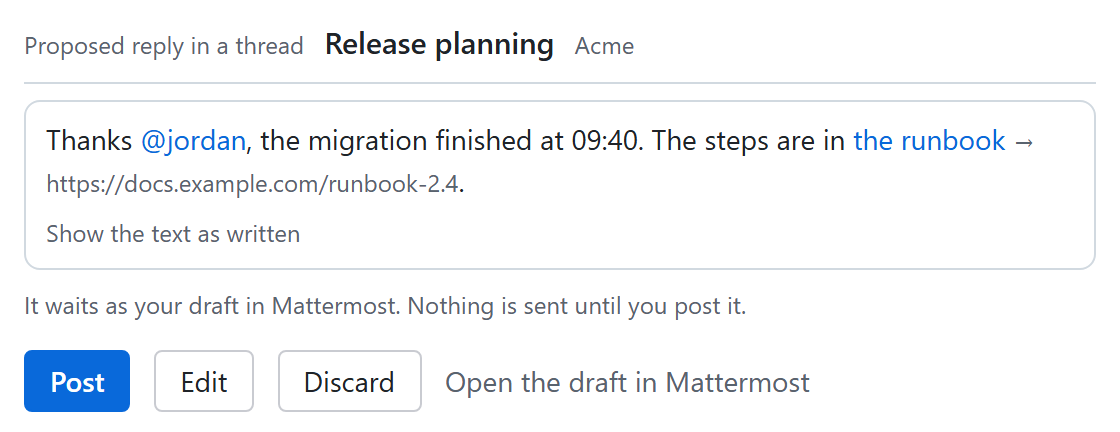
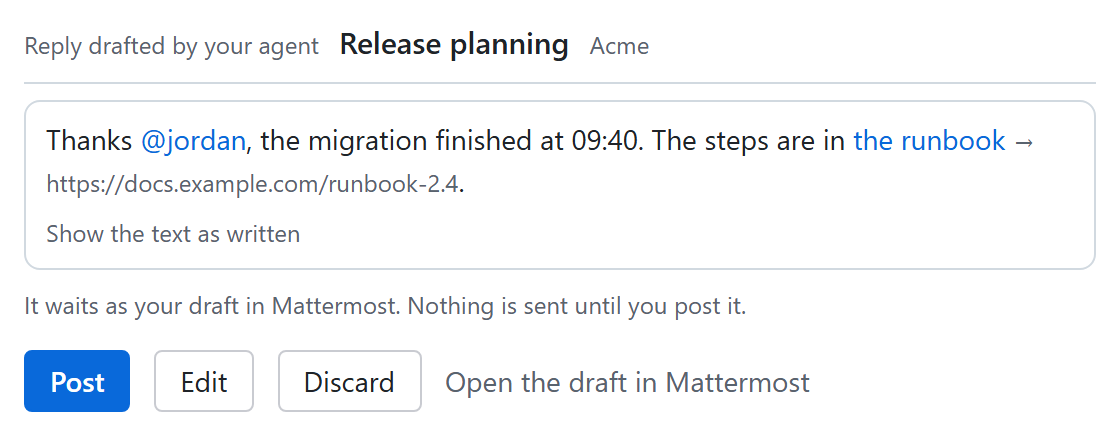
feat: a proposal's view says who drafted it, in plain words
The view of a post your agent drafts no longer speaks of proposals, a
word of mm-mcp's design that a person reading it has no use for:
- its header says "Drafted by your agent", or "Reply drafted by your
  agent";
- beside a draft the person started, the agent's is "Your agent's draft",
  and a revision "Your agent's changes to your draft";
- a press the app refuses says "This app does not let you post or change
  the draft from here."

The home page's drawn conversation speaks the same way. The README's
pictures are taken again from the view as it now reads.

Changed region(s): [[0.0312, 0.0602, 0.5938, 0.1505]]

diff --git a/internal/views/proposal_browser_test.go b/internal/views/proposal_browser_test.go
@@ -91,7 +91,7 @@ func TestAProposalIsShownAsItWillBePostedHidingNothing(t *testing.T) {
 			Warning: text('.proposal-warning'), Notes: d.querySelectorAll('.proposal-notes li').length,
 			Targets: [...d.querySelectorAll('.md-link-target')].map((e) => e.textContent),
 		};`, &drawn)
-	if drawn.Label != "Proposed post" || drawn.Title != "Town Square" || drawn.Team != "Team" || drawn.Notes != 1 ||
+	if drawn.Label != "Drafted by your agent" || drawn.Title != "Town Square" || drawn.Team != "Team" || drawn.Notes != 1 ||
 		!strings.Contains(drawn.Status, "Nothing is sent until you post it") {
 		t.Errorf("the proposal is drawn as %+v", drawn)
 	}
@@ -124,7 +124,7 @@ func TestAProposalIsShownAsItWillBePostedHidingNothing(t *testing.T) {
 	}
 
 	reply := h.mount(showProposal(proposal("I can take it", map[string]any{"root_id": "p1", "url": "https://chat.example.com/team/pl/p1"}), nil))
-	if got := h.text(reply, ".posted-label"); got != "Proposed reply in a thread" {
+	if got := h.text(reply, ".posted-label"); got != "Reply drafted by your agent" {
 		t.Errorf("a reply is labelled %q", got)
 	}
 }
@@ -254,7 +254,7 @@ func TestThePersonsOwnDraftIsKeptOrReplacedOnTheirPress(t *testing.T) {
 	i := h.mount(showProposal(choosing, nil))
 	var headings []string
 	h.in(i, "return [...d.querySelectorAll('.proposal-heading')].map((e) => e.textContent);", &headings)
-	if strings.Join(headings, " | ") != "Your draft | Proposal" {
+	if strings.Join(headings, " | ") != "Your draft | Your agent's draft" {
 		t.Errorf("the choice shows %v", headings)
 	}
 	if got := h.buttons(i); !has(got, "Replace mine") || !has(got, "Keep mine") || has(got, "Post") {
@@ -296,7 +296,7 @@ func TestARefusedPressSaysSoAndOffersTheDraftInMattermost(t *testing.T) {
 	i := h.mount(showProposal(proposal("Lunch", nil), map[string]any{"tools": map[string]any{"view_change": []any{map[string]any{"error": "Invalid params"}}}}))
 	h.press(i, "Post")
 	h.untilIn(i, "d.querySelector('.notice')")
-	if got := h.text(i, ".notice"); !strings.Contains(got, "This app does not let the view change the draft here.") || !strings.Contains(got, "Open in Mattermost") {
+	if got := h.text(i, ".notice"); !strings.Contains(got, "This app does not let you post or change the draft from here.") || !strings.Contains(got, "Open in Mattermost") {
 		t.Errorf("a refused press says %q", got)
 	}
 	// A press mm-mcp refuses says why.

diff --git a/tests/live/clients_test.go b/tests/live/clients_test.go
@@ -446,7 +446,7 @@ func TestClientsProposeAPostAndThePersonPostsItFromTheView(t *testing.T) {
 			run.drive("ready", nil)
 			run.send(script("propose_post", map[string]any{"channel_id": channel.Id, "message": message}), map[string]any{"approve": client == testclients.VSCode})
 			shown := run.drive("view", map[string]any{"text": message})
-			mustContain(t, "the proposal", fmt.Sprint(shown["text"]), "Proposed post", channel.DisplayName, "Nothing is sent until you post it")
+			mustContain(t, "the proposal", fmt.Sprint(shown["text"]), "Drafted by your agent", channel.DisplayName, "Nothing is sent until you post it")
 			if posts := messagesIn(t, admin, channel.Id); len(posts) != 0 {
 				t.Fatalf("proposing posted %d messages", len(posts))
 			}
@@ -476,7 +476,7 @@ func TestClientsProposeAPostAndThePersonPostsItFromTheView(t *testing.T) {
 }
 
 // In Goose's approve mode a proposal's Post is refused like every call a view
-// makes, so the view says it cannot change the draft here and offers it in
+// makes, so the view says it cannot post or change the draft from there and offers it in
 // Mattermost, where it still waits.
 func TestClientsGooseInApproveModeRefusesAProposalsPress(t *testing.T) {
 	admin := admin(t)
@@ -488,7 +488,7 @@ func TestClientsGooseInApproveModeRefusesAProposalsPress(t *testing.T) {
 	run := startClient(t, testclients.Goose, personalAccessToken(t, admin, user.Id).Token, clientOptions{approve: true, writes: true})
 	run.drive("ready", nil)
 	run.send(script("propose_post", map[string]any{"channel_id": channel.Id, "message": message}), map[string]any{"approve": true})
-	refused := run.drive("press", map[string]any{"text": message, "button": "^Post$", "until": "This app does not let the view change the draft here."})
+	refused := run.drive("press", map[string]any{"text": message, "button": "^Post$", "until": "This app does not let you post or change the draft from here."})
 	mustContain(t, "the refused press", fmt.Sprint(refused["text"]), "Open in Mattermost")
 	if posts := messagesIn(t, admin, channel.Id); len(posts) != 0 {
 		t.Errorf("a refused press posted %d messages", len(posts))

diff --git a/docs/site/index.md b/docs/site/index.md
@@ -29,7 +29,7 @@ post states how far it goes, and mm-mcp checks that before it is sent.</p>
 <div class="mm-msg mm-msg--agent">Two threads since Friday. The release moved to Thursday, and Sam asks whether the 2.4 notes are ready.</div>
 <div class="mm-msg mm-msg--you">Draft a reply to Sam for me.</div>
 <div class="mm-tool">propose_post, a reply in ~release-planning</div>
-<div class="mm-msg mm-msg--agent mm-ask"><span class="mm-ask__label">Proposed reply · Release planning</span><br>The 2.4 notes are ready, Sam. The changelog is in the release doc.
+<div class="mm-msg mm-msg--agent mm-ask"><span class="mm-ask__label">Reply drafted by your agent · Release planning</span><br>The 2.4 notes are ready, Sam. The changelog is in the release doc.
 <div class="mm-ask__buttons"><span>Post</span><span>Edit</span><span>Discard</span></div>
 </div>
 </div>
